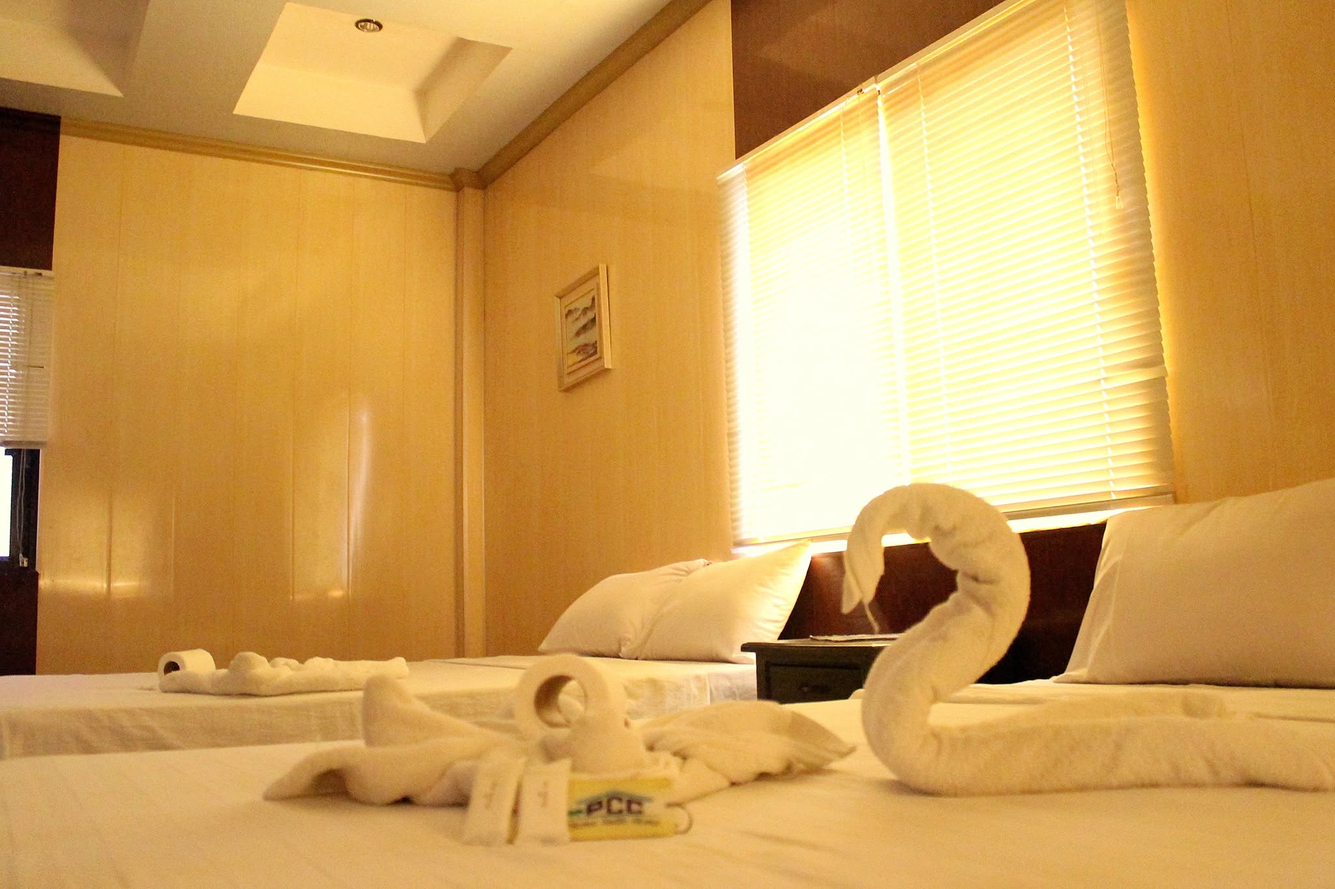
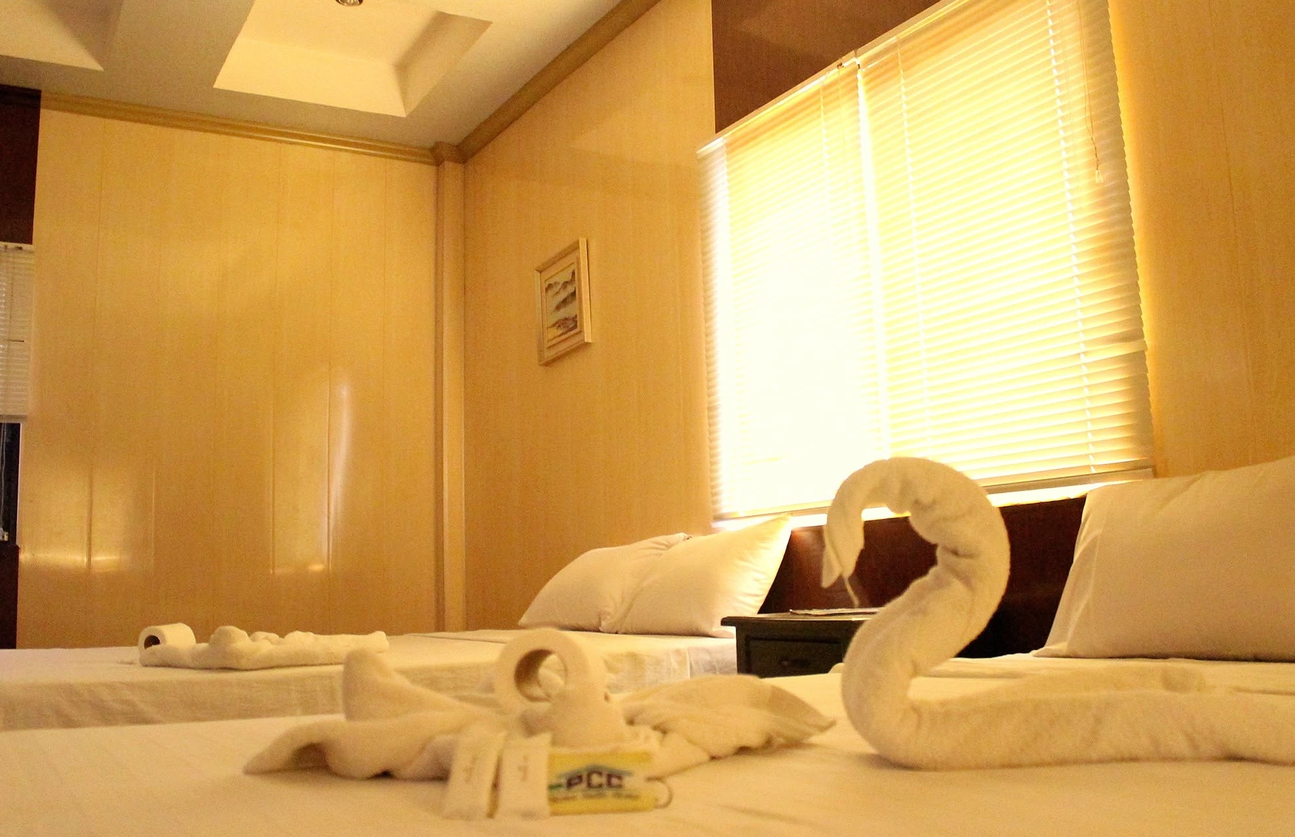
fix(landing): eliminate top and bottom border bleed artifacts on About Us panel

diff --git a/app/globals.css b/app/globals.css
@@ -1159,18 +1159,7 @@ body.dark-theme #promotions .card .bg-light {
    About section
    --------------------------------------------------------------- */
 .about-figure {
-  background-color: var(--pcc-blue);
-  background-image: 
-    linear-gradient(
-      140deg,
-      rgba(22, 62, 130, 0.86) 0%,
-      rgba(33, 85, 181, 0.70) 48%,
-      rgba(15, 23, 42, 0.88) 100%
-    ),
-    url('/assets/images/pcc-landing-bg.jpg');
-  background-size: cover;
-  background-position: center center;
-  background-repeat: no-repeat;
+  background-color: var(--pcc-blue-dark);
   border-radius: 14px;
   min-height: 380px;
   display: flex;
@@ -1182,6 +1171,25 @@ body.dark-theme #promotions .card .bg-light {
   box-shadow: 0 20px 45px -15px rgba(22, 62, 130, 0.28);
   border: 1px solid rgba(255, 255, 255, 0.18);
   transition: transform 0.3s ease, box-shadow 0.3s ease;
+}
+
+.about-figure::after {
+  content: "";
+  position: absolute;
+  inset: -1px;
+  background-image: 
+    linear-gradient(
+      140deg,
+      rgba(22, 62, 130, 0.86) 0%,
+      rgba(33, 85, 181, 0.70) 48%,
+      rgba(15, 23, 42, 0.88) 100%
+    ),
+    url('/assets/images/pcc-landing-bg.jpg');
+  background-size: cover;
+  background-position: center center;
+  background-repeat: no-repeat;
+  z-index: 0;
+  pointer-events: none;
 }
 
 .about-figure:hover {
